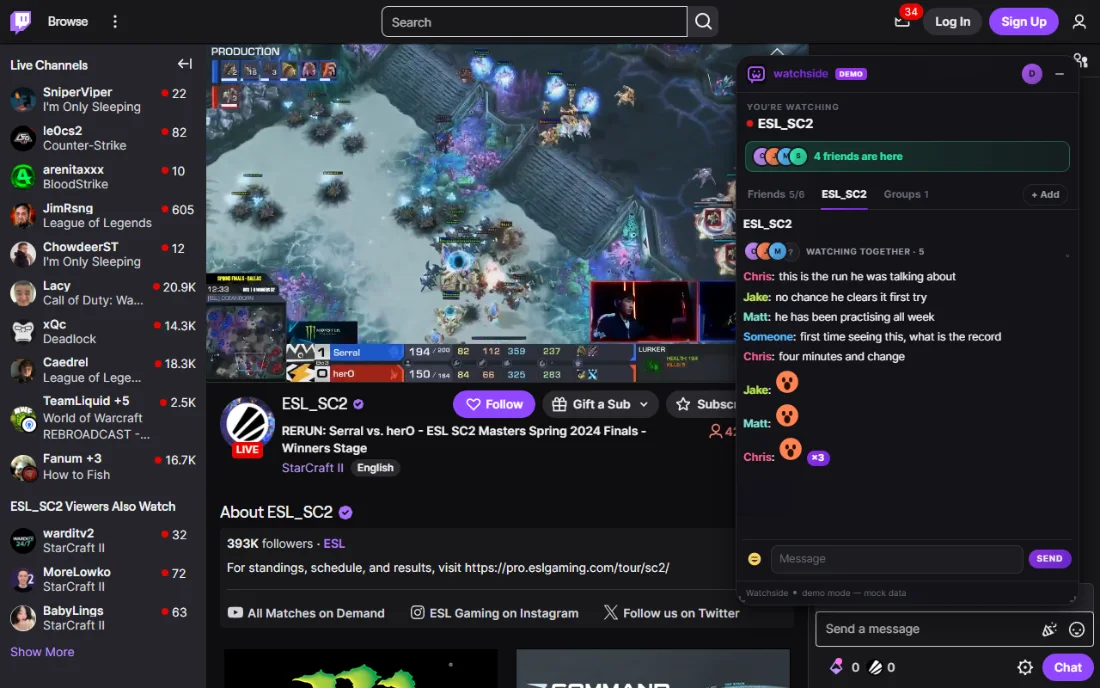
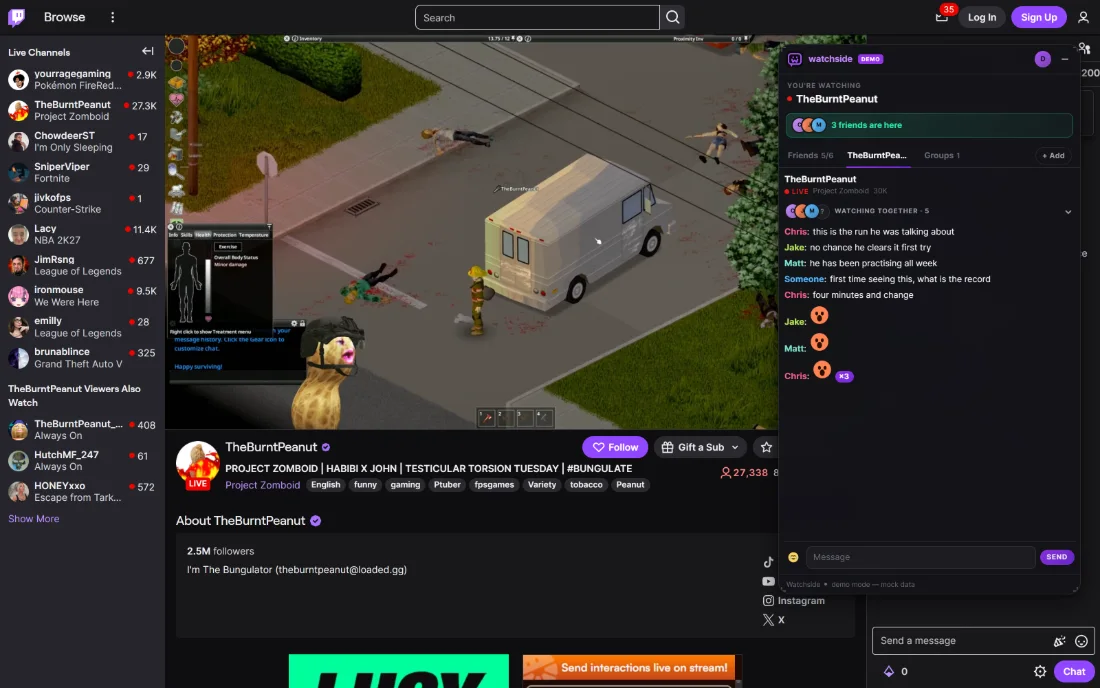
assets(site): the homepage now shows the product as it currently looks
watchside.app was still showing the Store frames captured on 2 September.
Those predate the Twitch metadata enrichment, so every Social Gravity card in
them is the plain fallback: a letter monogram, a lowercase login, a count. The
product has not looked like that since the metadata shipped, and the page whose
job is to show the product was showing an older one.

Same three slots, same layout, same copy. Only the images changed, and which
master fills which slot follows what each frame actually says:

  hero              gravity-join. The mechanism in one frame - a friend HERE on
                    this stream, three more gathered elsewhere, JOIN. It is the
                    strongest slot on the page, so it gets the strongest claim.
  Someone is        here. The payoff: three friends on the stream you are on,
  already here      with the ones who are elsewhere still one press away.
  Watch it          together. The session itself, mid-conversation.
  together

marketing-01-presence.png is deliberately unused. It duplicates what the hero
already says, and adding a section to accommodate a fourth image would be
building page around assets rather than the other way round.

The files are renamed because their contents changed roles, and a
`presence.webp` holding the gravity-join frame is a trap for whoever touches
this next.

DELIVERY. Two sizes per image with a `srcset`, which is what stops sharper
[…]

diff --git a/docs/web/pages-watchside/index.html b/docs/web/pages-watchside/index.html
@@ -874,10 +874,11 @@
         <div class="wrap">
           <figure class="shot hero-shot">
             <img
-              src="/watchside/img/presence.webp"
+              src="/watchside/img/gravity-join.webp"
+              srcset="/img/gravity-join.webp 1x, /img/gravity-join@2x.webp 2x"
               width="1280"
               height="800"
-              alt="Twitch's browse page with the Watchside panel docked on the right. It lists friends grouped by the channel they are watching — three friends on esl_sc2, one on summit1g, one on zchum — each with a JOIN button."
+              alt="Watching a Twitch stream with the Watchside panel docked on the right. The panel says one friend is here on this channel, and lists three more friends gathered together on another channel with a JOIN button beside them."
               fetchpriority="high"
               decoding="async"
             />
@@ -953,10 +954,11 @@
             </div>
             <figure class="shot">
               <img
-                src="/watchside/img/join.webp"
+                src="/watchside/img/here.webp"
+                srcset="/img/here.webp 1x, /img/here@2x.webp 2x"
                 width="1100"
-                height="688"
-                alt="Watching summit1g on Twitch. The Watchside panel shows Sarah is here on this channel, with other friends listed below on esl_sc2 and zchum, each with a JOIN button."
+                height="687"
+                alt="Watching a Twitch stream with three friends. The Watchside panel says three friends are here on this channel, with the friends who are elsewhere listed below, each with a JOIN button."
                 loading="lazy"
                 decoding="async"
               />
@@ -975,9 +977,10 @@
             <figure class="shot">
               <img
                 src="/watchside/img/together.webp"
+                srcset="/img/together.webp 1x, /img/together@2x.webp 2x"
                 width="1100"
-                height="688"
-                alt="Watching ESL_SC2 with four friends. The Watchside panel shows a watching-together conversation and emoji reactions alongside the stream."
+                height="687"
+                alt="Watching a Twitch stream with friends. The Watchside panel shows a watching-together conversation and emoji reactions alongside the stream."
                 loading="lazy"
                 decoding="async"
               />

diff --git a/docs/web/watchside-app/pages/index.html b/docs/web/watchside-app/pages/index.html
@@ -83,10 +83,11 @@
         <div class="wrap">
           <figure class="shot hero-shot">
             <img
-              src="/img/presence.webp"
+              src="/img/gravity-join.webp"
+              srcset="/img/gravity-join.webp 1x, /img/gravity-join@2x.webp 2x"
               width="1280"
               height="800"
-              alt="Twitch's browse page with the Watchside panel docked on the right. It lists friends grouped by the channel they are watching — three friends on esl_sc2, one on summit1g, one on zchum — each with a JOIN button."
+              alt="Watching a Twitch stream with the Watchside panel docked on the right. The panel says one friend is here on this channel, and lists three more friends gathered together on another channel with a JOIN button beside them."
               fetchpriority="high"
               decoding="async"
             />
@@ -162,10 +163,11 @@
             </div>
             <figure class="shot">
               <img
-                src="/img/join.webp"
+                src="/img/here.webp"
+                srcset="/img/here.webp 1x, /img/here@2x.webp 2x"
                 width="1100"
-                height="688"
-                alt="Watching summit1g on Twitch. The Watchside panel shows Sarah is here on this channel, with other friends listed below on esl_sc2 and zchum, each with a JOIN button."
+                height="687"
+                alt="Watching a Twitch stream with three friends. The Watchside panel says three friends are here on this channel, with the friends who are elsewhere listed below, each with a JOIN button."
                 loading="lazy"
                 decoding="async"
               />
@@ -184,9 +186,10 @@
             <figure class="shot">
               <img
                 src="/img/together.webp"
+                srcset="/img/together.webp 1x, /img/together@2x.webp 2x"
                 width="1100"
-                height="688"
-                alt="Watching ESL_SC2 with four friends. The Watchside panel shows a watching-together conversation and emoji reactions alongside the stream."
+                height="687"
+                alt="Watching a Twitch stream with friends. The Watchside panel shows a watching-together conversation and emoji reactions alongside the stream."
                 loading="lazy"
                 decoding="async"
               />

diff --git a/tests/extension/campaignPages.test.ts b/tests/extension/campaignPages.test.ts
@@ -114,7 +114,10 @@ describe('every campaign has a real page', () => {
     for (const campaign of manifest()) {
       const html = read('c', campaign.code, 'index.html')
       expect(html, campaign.code).toContain('See where your friends are')
-      expect(html, campaign.code).toContain('img/presence.webp')
+      // The hero screenshot, whose filename tracks whichever master currently
+      // fills that slot - the point is that the campaign page carries the real
+      // landing content, not that any one image is in it forever.
+      expect(html, campaign.code).toContain('img/gravity-join.webp')
       expect(html, campaign.code).toContain('How it works')
       // Comparable in size to the root page, rather than to the 404.
       expect(html.length, campaign.code).toBeGreaterThan(read('404.html').length * 2)
